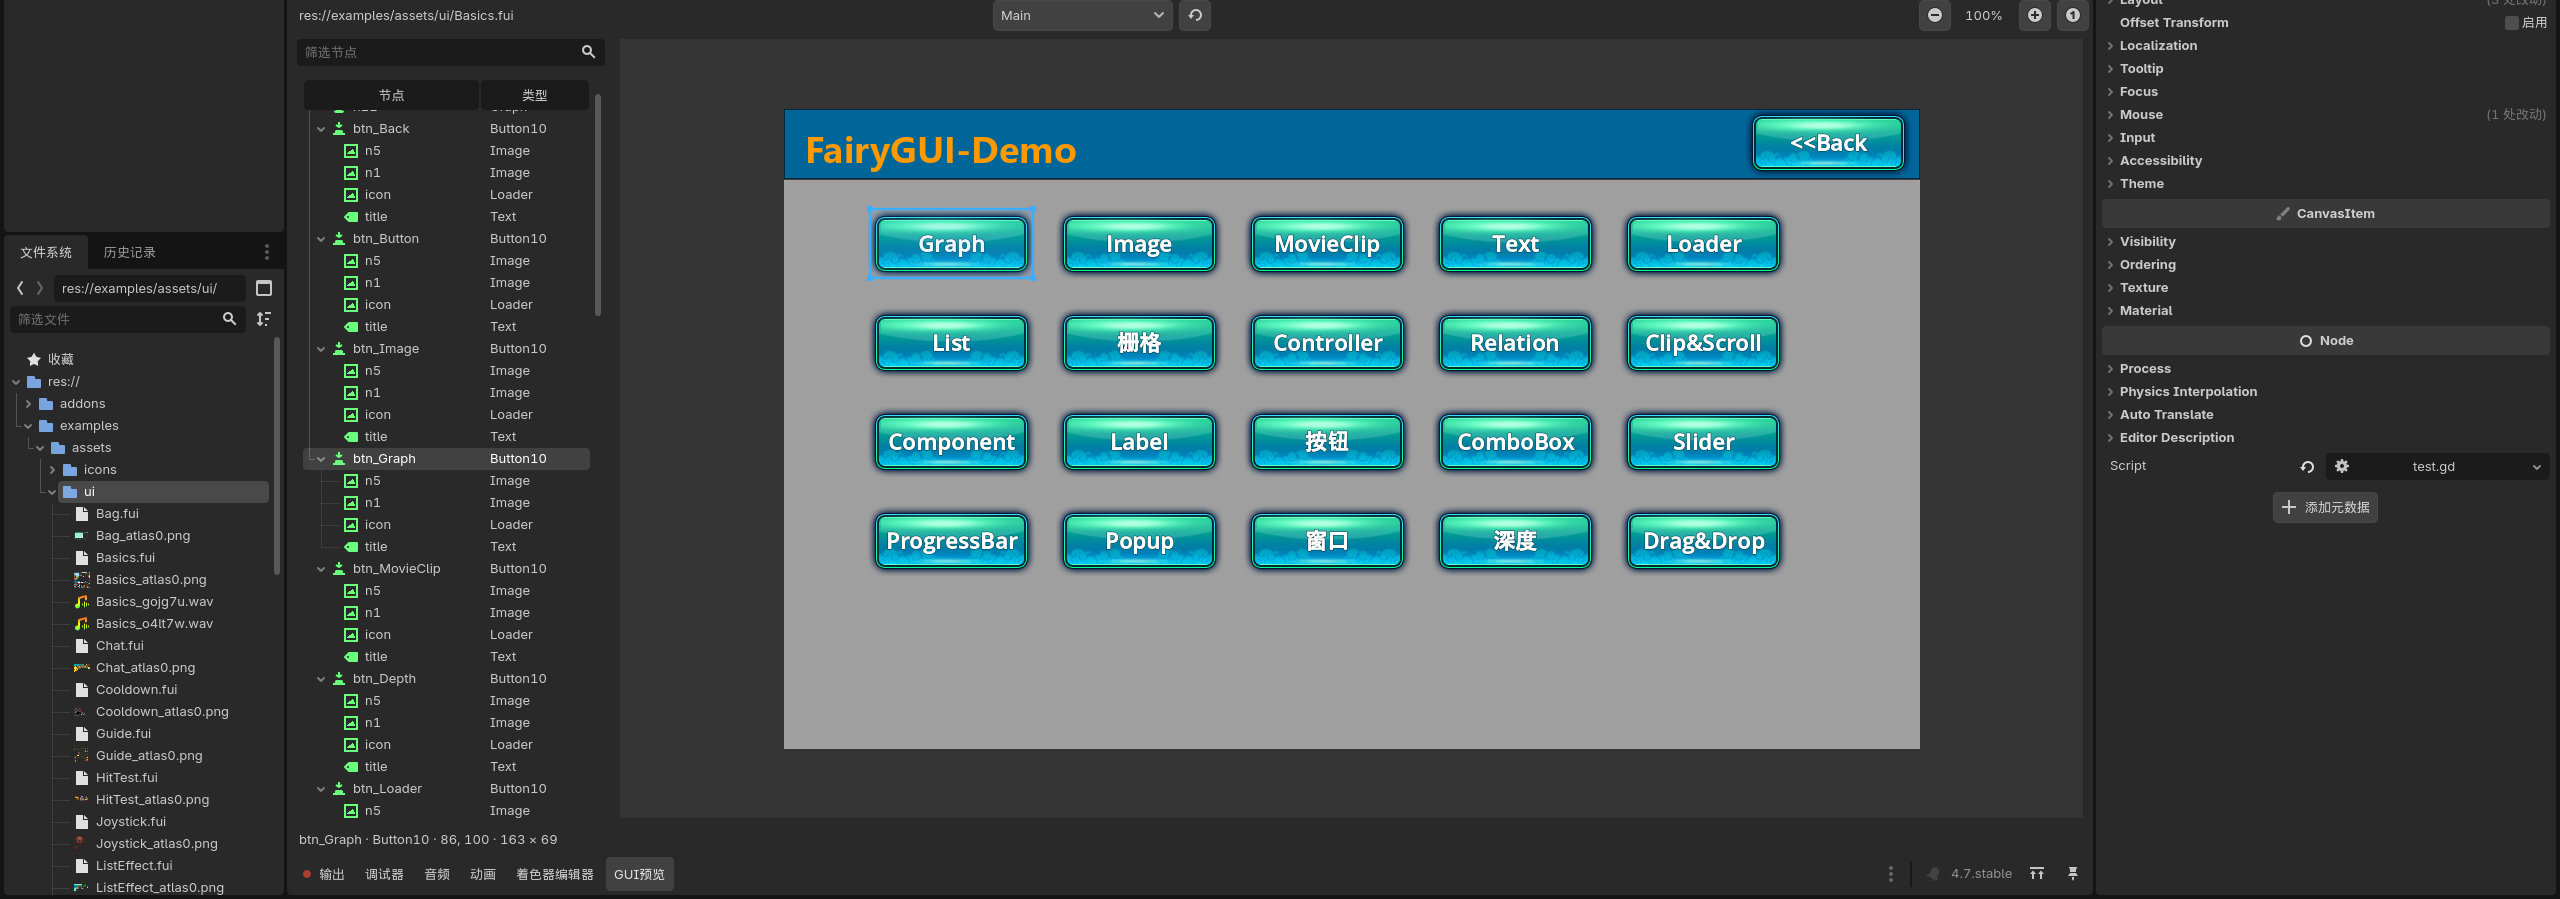
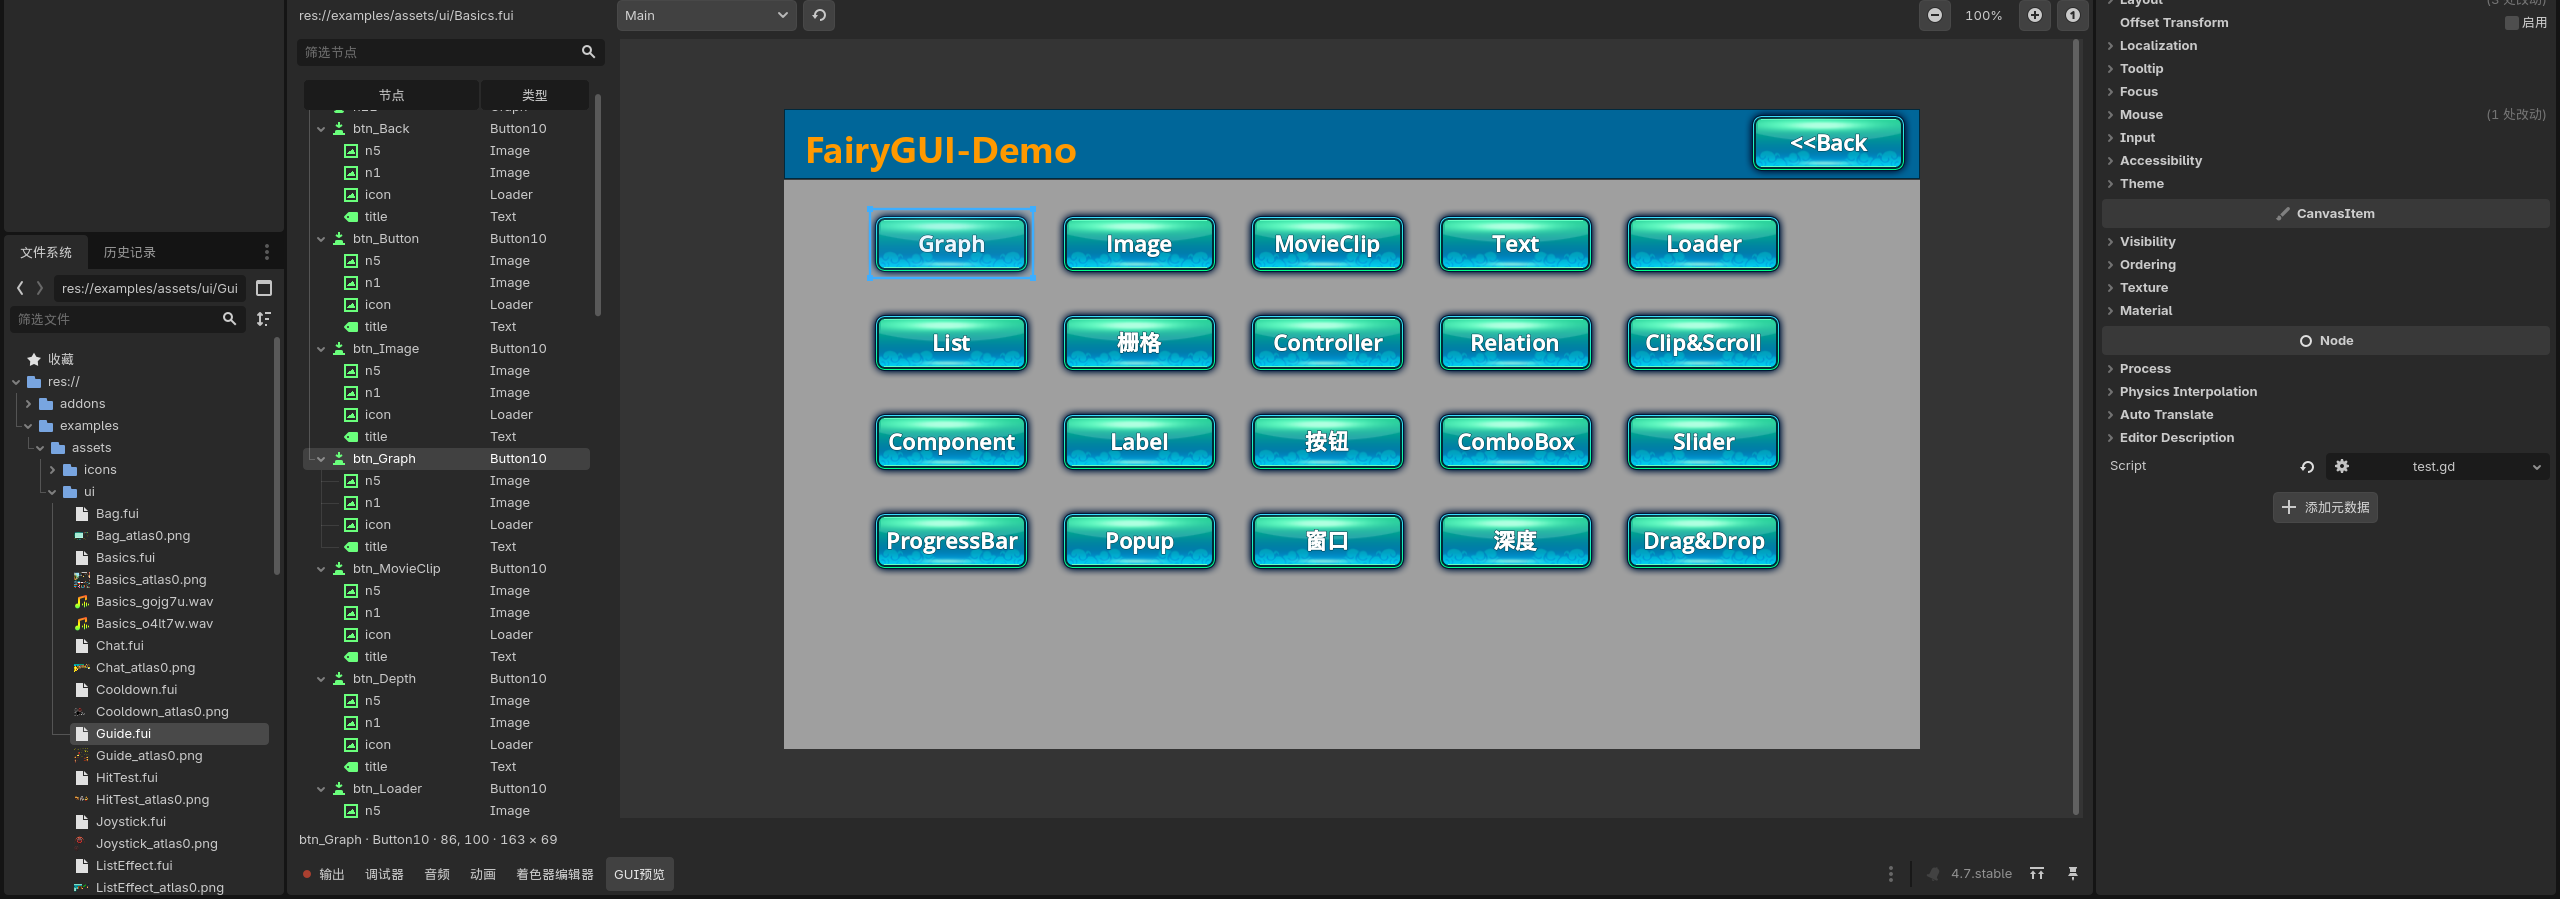
style: refine preview editor layout

diff --git a/docs/CODEGEN_SPEC.md b/docs/CODEGEN_SPEC.md
@@ -201,8 +201,8 @@ res://generated/fairygui/
 
 Inspector 操作必须提供：
 
-- Generate Bindings：重新生成项目绑定。
-- Open Binding：打开当前 `FGUIView` 对应的生成脚本；未生成时禁用或先生成。
+- 生成绑定：重新生成项目绑定。
+- 打开绑定：打开当前 `FGUIView` 对应的生成脚本；未生成时禁用或先生成。
 
 生成完成后请求 EditorFileSystem 扫描，并使 `FGUIView` 刷新预览。错误必须显示在 Godot 输出面板，汇总中包含生成、跳过、删除和警告数量。
 

diff --git a/docs/GUI_PREVIEW.md b/docs/GUI_PREVIEW.md
@@ -10,8 +10,8 @@
 以下操作会打开编辑器底部的“GUI预览”面板：
 
 - 在 Godot 文件系统中双击导入后的 `.fui`。
-- 在 `FGUIPackageResource` Inspector 中点击 `Open Preview`。
-- 在配置了 package 的 `FGUIView` Inspector 中点击 `Open Preview`。
+- 在 `FGUIPackageResource` Inspector 中点击“打开预览”。
+- 在配置了 package 的 `FGUIView` Inspector 中点击“打开预览”。
 
 重新导入当前 `.fui` 后，已打开的面板会自动重新加载。
 